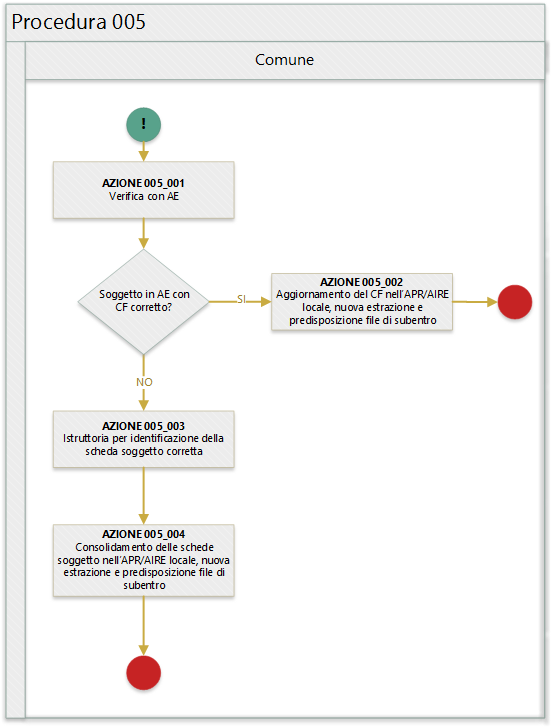
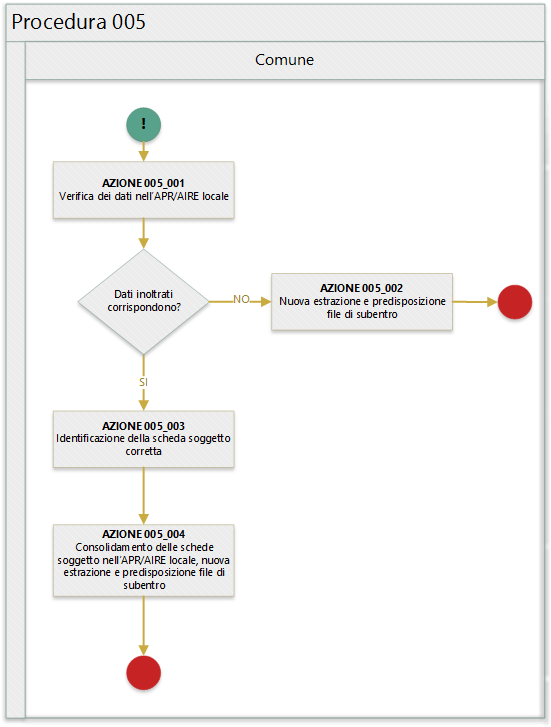
aggiornato

diff --git a/procedure/PROCEDURA_005.md b/procedure/PROCEDURA_005.md
@@ -25,16 +25,16 @@ La seguente figura sintetizza la procedura per la gestione delle anomalie.
 In quanto segue si riporta una descrizione delle azioni previsti per la presente procedura.
 
 ### AZIONE 005_001
-L'ufficiale di anagrafe verifica, tramite il sistema *SIATEL v2.0 - PuntoFisco* reso disponibile dall'Agenzia delle entrate, l'attribuzione dello stesso da parte dell'Agenzia delle entrate.
+L'ufficiale d'anagrafe verifica i dati anagrafici associati al soggetto interessato dall'errore sul sistema gestionale del Comune (APR o AIRE locale) con l'obiettivo di constatare che i dati inoltrati al sistema ANPR coincidono con quelli registrati.
 
 ### AZIONE 005_002
-L'ufficiale di anagrafe, a valle del riscontro che il *codice fiscale* conosciuto dall'Agenzia delle entrate non presente l'anomalia segnalata, provvede ad aggiornare il *codice fiscale* sul sistema gestionale del Comune per dare seguito ad una nuova estrazione dei dati e alla predisposizione dei file di subentro al fine di provvedere ad eseguire l'inoltro al sistema ANPR.
+Poichè i dati inoltrati al sistema ANPR non coincidono con quelli presenti nel sistema gestionale del Comune (probabilemente per problemi nella procedura di estrazione e predisposizione dei file di subentro utilizzata) è necessario provvedere nuovamente all'estrazione dei dati e alla predisposizione dei file di subentro al fine di provvedere ad eseguire l'inoltro al sistema ANPR.
 
 ### AZIONE 005_003
-L'ufficiale di anagrafe, o se necessario perchè coinvolti più comuni, realizza l'istgruttoria necessaria a confutare quale sia la scheda soggetto da considerare corretta.
+L'ufficiale di anagrafe, o se necessario perchè coinvolti più comuni gli ufficiali di anagrafe, realizzano le necessarie verifiche al fine di confutare quale sia la scheda soggetto da considerare corretta.
 
 ### AZIONE 005_004
-L'ufficiale di anagrafe, sulla base delle istruttoria realizzata, provvede a consolidare le *schede soggetto* sul sistema gestionale del Comune per dare seguito ad una nuova estrazione dei dati e alla predisposizione dei file di subentro al fine di provvedere ad eseguire l'inoltro al sistema ANPR.
+L'ufficiale di anagrafe, sulla base delle verifica effettuata, provvede a consolidare le *schede soggetto* sul sistema gestionale del Comune per dare seguito ad una nuova estrazione dei dati e alla predisposizione dei file di subentro al fine di provvedere ad eseguire l'inoltro al sistema ANPR.
 
 
 > ritorna [*README*](../README.md) o [*Tabella anomalie ANPR*](../TAB01_ANOMALIE_ANPR.md)
